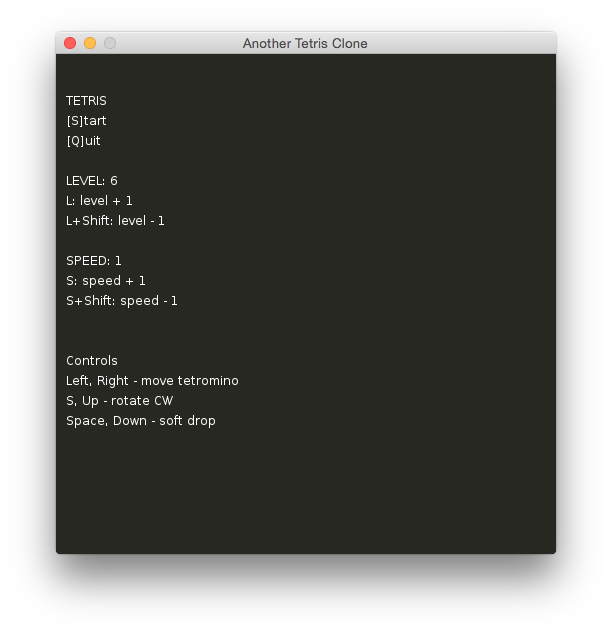
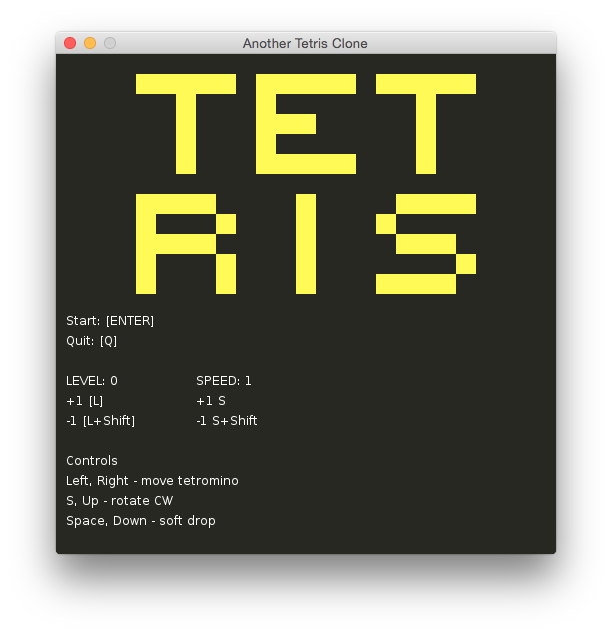
Updated README and screens

Changed region(s): [[0.0931, 0.0899, 0.7761, 0.6893], [0.0931, 0.7192, 0.3725, 0.8391], [0.1242, 0.1498, 0.1863, 0.2397]]

diff --git a/README.md b/README.md
@@ -15,10 +15,16 @@ Run
 
 ## Screenshots
 
+### Main menu
+
+![main menu](docs/main_menu.png)
+
 ### Playfield
 
 ![playfield](docs/playfield.png)
 
-### Main menu
 
-![main menu](docs/main_menu.png)
+### GameOver
+
+![game over](docs/game_over.png)
+
